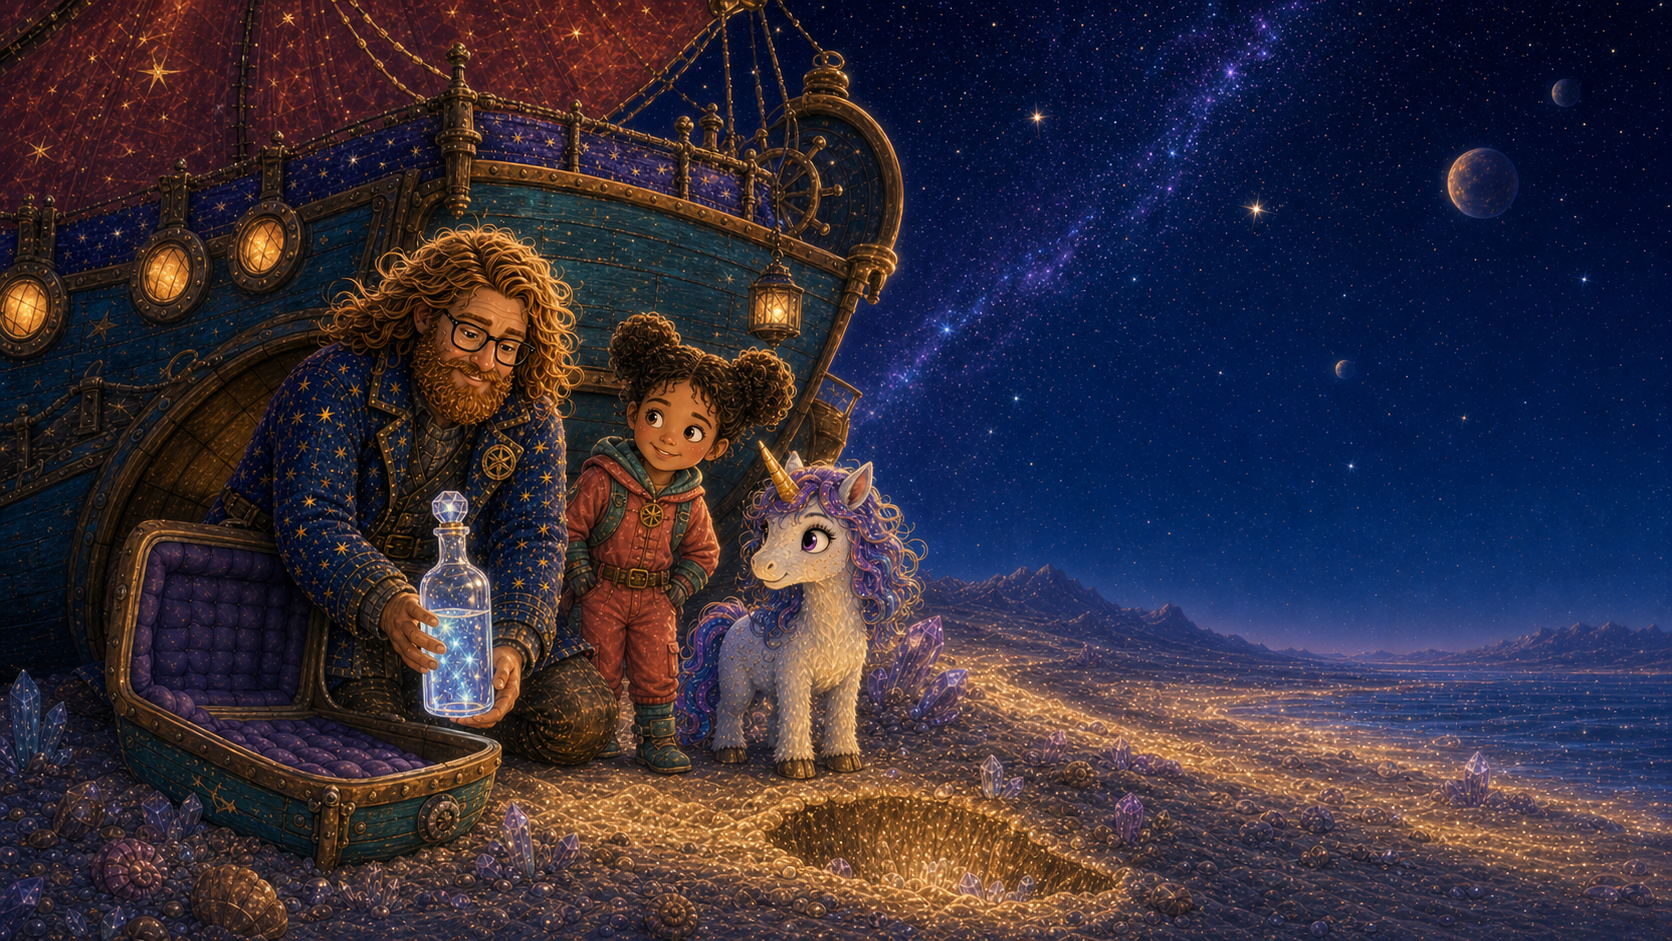
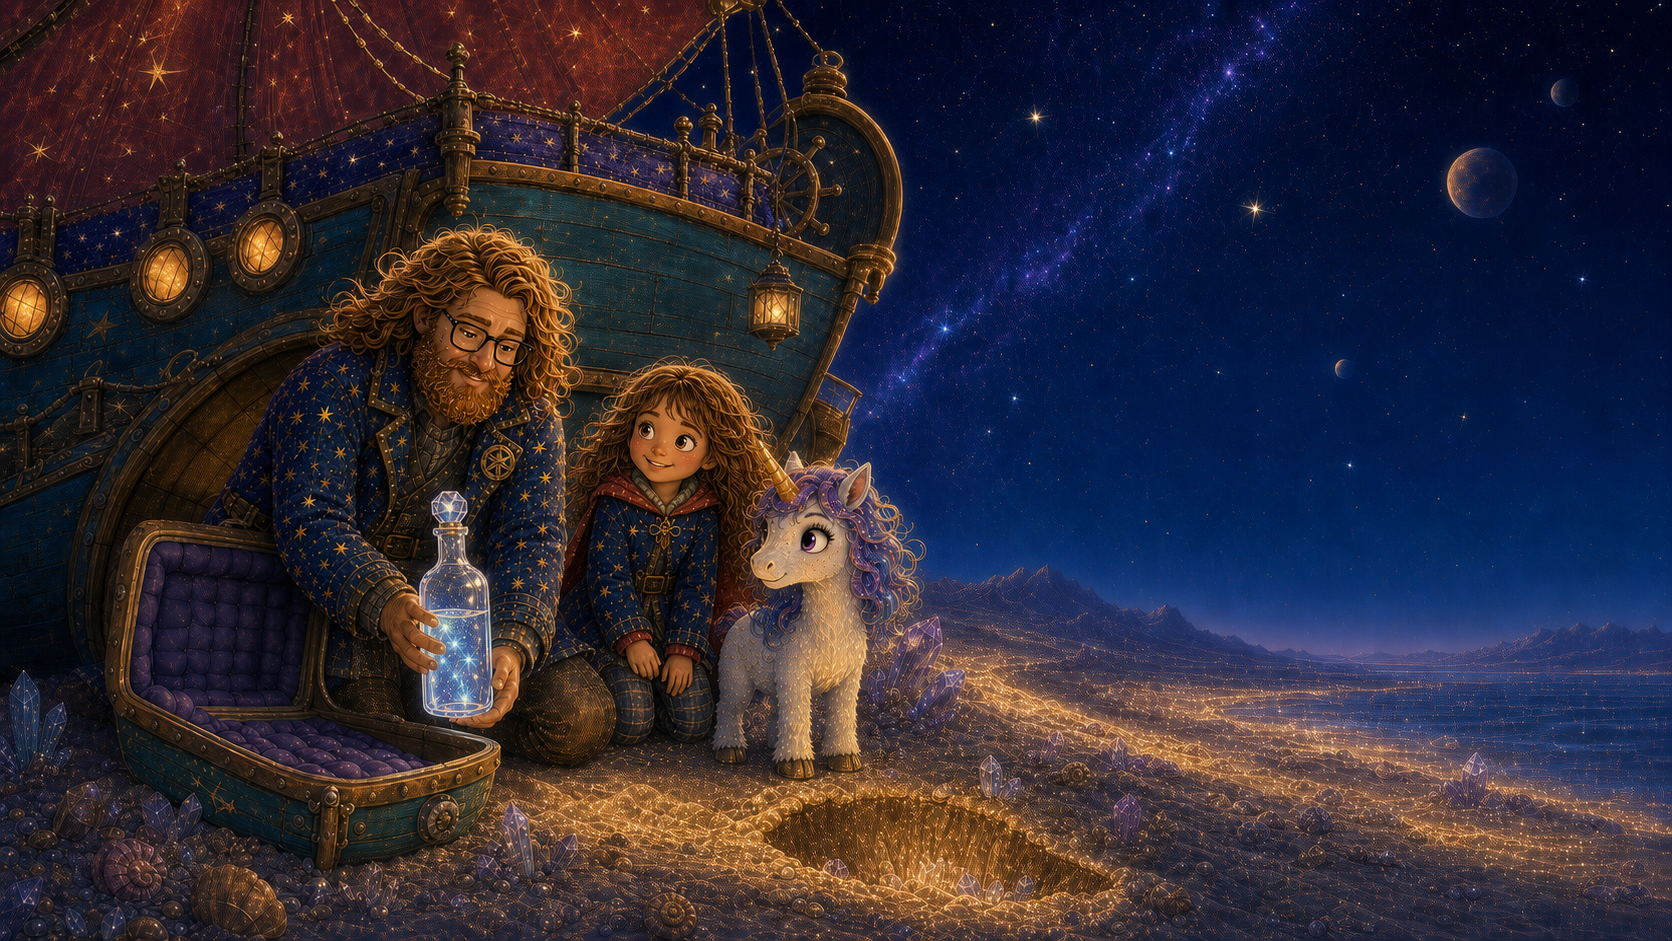
Correct Starwater characters and shelf placement

diff --git a/index.html b/index.html
@@ -41,7 +41,7 @@
                 <section class="bookshelf library-collection library-collection-juliet" aria-labelledby="juliet-adventures-title">
                     <div class="shelf-heading">
                         <div>
-                            <p class="shelf-kicker">Collection one · 2 books</p>
+                            <p class="shelf-kicker">Collection one · 3 books</p>
                             <h2 id="juliet-adventures-title">Juliet’s Grand Adventures</h2>
                         </div>
                         <p class="shelf-hint">Juliet leads a gentle bedtime crew through bright planets, curious clues, and brave rescues.</p>
@@ -79,6 +79,23 @@
                                     <p>A round clue, a storm of sprinkles, and a cozy explorer growing into a proper space-pirate captain.</p>
                                 </div>
                                 <button class="shelf-read-button" type="button" data-open-book="doughnut">Read this book</button>
+                            </div>
+                        </article>
+
+                        <article class="book-card book-card-starwater">
+                            <button class="book-jacket" type="button" data-open-book="starwater" aria-label="Open Starbeard and the Starwater">
+                                <img src="./assets/book-starwater-cover.png" alt="Starbeard, Juliet, and Uni discover a glowing crystal bottle beneath the moon-sand.">
+                                <span class="book-jacket-shade" aria-hidden="true"></span>
+                                <span class="book-volume">Volume three</span>
+                                <span class="book-open-prompt">Open book <span aria-hidden="true">→</span></span>
+                            </button>
+                            <div class="book-details">
+                                <div>
+                                    <p class="book-tag book-tag-new">Third voyage · 8 spreads</p>
+                                    <h3>Starbeard and the Starwater</h3>
+                                    <p>A patient treasure hunt uncovers a bottle of gentle light and a reminder that the finest treasures help us feel our best.</p>
+                                </div>
+                                <button class="shelf-read-button" type="button" data-open-book="starwater">Read this book</button>
                             </div>
                         </article>
                     </div>
@@ -135,29 +152,15 @@
                 <section class="bookshelf library-collection library-collection-other" aria-labelledby="other-stories-title">
                     <div class="shelf-heading">
                         <div>
-                            <p class="shelf-kicker">Collection three · 1 book</p>
+                            <p class="shelf-kicker">Collection three</p>
                             <h2 id="other-stories-title">Other Stories</h2>
                         </div>
                         <p class="shelf-hint">Finished stories beyond the two adventure collections will live here.</p>
                     </div>
 
-                    <div class="book-grid">
-                        <article class="book-card book-card-starwater">
-                            <button class="book-jacket" type="button" data-open-book="starwater" aria-label="Open Starbeard and the Starwater">
-                                <img src="./assets/book-starwater-cover.png" alt="Starbeard, Juliet, and Uni discover a glowing crystal bottle beneath the moon-sand.">
-                                <span class="book-jacket-shade" aria-hidden="true"></span>
-                                <span class="book-volume">A gentle space-pirate tale</span>
-                                <span class="book-open-prompt">Open book <span aria-hidden="true">→</span></span>
-                            </button>
-                            <div class="book-details">
-                                <div>
-                                    <p class="book-tag book-tag-new">Other Stories · 8 spreads</p>
-                                    <h3>Starbeard and the Starwater</h3>
-                                    <p>A patient treasure hunt uncovers a bottle of gentle light and a reminder that the finest treasures help us feel our best.</p>
-                                </div>
-                                <button class="shelf-read-button" type="button" data-open-book="starwater">Read this book</button>
-                            </div>
-                        </article>
+                    <div class="shelf-empty" role="note">
+                        <span class="shelf-empty-star" aria-hidden="true">✦</span>
+                        <p><strong>This shelf is waiting for its first finished story.</strong> When another tale is complete, its book will appear here.</p>
                     </div>
                     <div class="shelf-plank" aria-hidden="true"></div>
                 </section>

diff --git a/README.md b/README.md
@@ -10,6 +10,7 @@ Only completed books are added to the library. Each finished book belongs to one
 
 - **The Three Little Planets:** an eight-spread journey guided by the magical map hidden in Starbeard’s beard.
 - **Starbeard and the Doughnut Planet Map:** an eight-spread rescue guided by the golden map hidden in Juliet’s marmalade, with Starbeard becoming more space-pirate-like along the way.
+- **Starbeard and the Starwater:** an eight-spread treasure hunt about preparing carefully, digging patiently, sharing clear cosmic water, and carrying kindness home.
 
 ### The Adventures of Starbeard and Uni
 
@@ -18,7 +19,7 @@ Only completed books are added to the library. Each finished book belongs to one
 
 ### Other Stories
 
-- **Starbeard and the Starwater:** an eight-spread treasure hunt about preparing carefully, digging patiently, sharing clear cosmic water, and carrying kindness home.
+Completed stories outside the two adventure collections will be added here.
 
 Each book opens in the same full-screen horizontal reader with touch swiping, keyboard navigation, page controls, and optional local Kokoro read-aloud. The voice menu beside **Read this page** offers American and British voices and remembers the selected voice in that browser.
 
